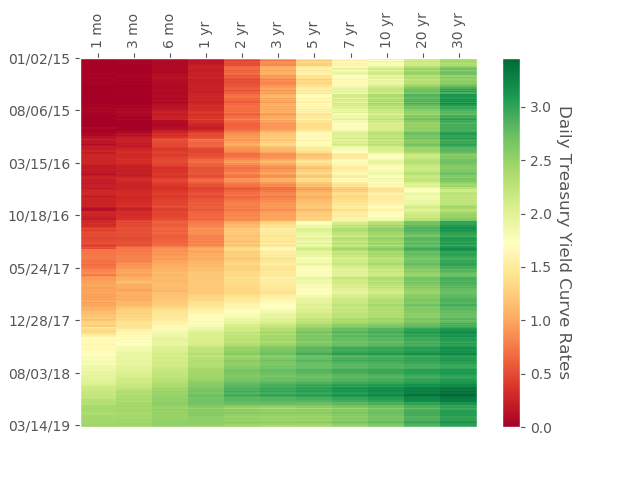
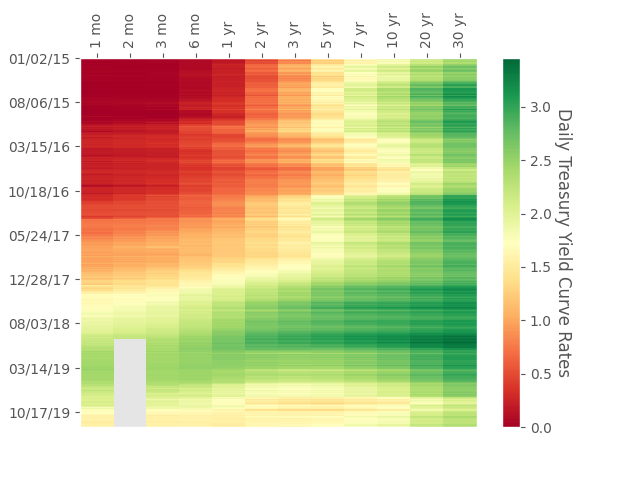
Updates to average 2 mo bond

diff --git a/compile_yc_data.py b/compile_yc_data.py
@@ -6,6 +6,15 @@ Created on Sat Mar 23 12:29:19 2019
 """
 
 import pandas as pd
+import os
+
+
+def avgRates(df):
+    #If the datatype condition is false, the .strip() will not be run so it won't throw an error on float types
+    if isinstance(df['2 mo'], str) and df['2 mo'].strip() == 'N/A':
+        return round((df['1 mo'] + df['3 mo'])/2, 2)
+    else:
+        return df['2 mo']
 
 def compile_data(start_year, end_year):
     
@@ -19,10 +28,19 @@ def compile_data(start_year, end_year):
     
     
     #dropping 2 month bond due to n/a data
-    main_df.drop(['2 mo'], axis = 1,inplace = True )
-    
+
+    float_cols = [x for x in main_df.columns if x != '2 mo']
+    print(float_cols)
+    for col in float_cols:
+        main_df[col] = main_df[col].astype(float)
+
+    main_df['2 mo'] = main_df[['1 mo', '2 mo', '3 mo']].apply(avgRates, axis = 1)
+
+
+
     #output to csv
     file_name = 'Data/yc_data_' + str(start_year) + '_' + str(end_year)+'.csv'
+    os.remove(file_name)
     main_df.to_csv(file_name)
     
     return file_name

diff --git a/web_scraping_yield_curve.py b/web_scraping_yield_curve.py
@@ -14,16 +14,18 @@ import matplotlib.pyplot as plt
 from mpl_toolkits.mplot3d import axes3d
 import os.path
 from pathlib import Path
+import ssl
+ssl._create_default_https_context = ssl._create_unverified_context
 
 
 
 def getYcData(year):
     #url of page of interst
     site = "https://www.treasury.gov/resource-center/data-chart-center/interest-rates/Pages/TextView.aspx?data=yieldYear&year={}".format(year)
-    
+
     #define page
     page = urllib.request.urlopen(site)
-    
+
     #define html
     soup = BeautifulSoup(page)
     
@@ -98,9 +100,6 @@ def getDayOfYear(date):
     day = date.timetuple().tm_yday
     return day
 
-
-getYcData(2015)
-getYcData(2016)
-getYcData(2017)
-getYcData(2018)
-getYcData(2019)
+for y in range(2015, 2020):
+    print('Getting data for year', y)
+    getYcData(y)
